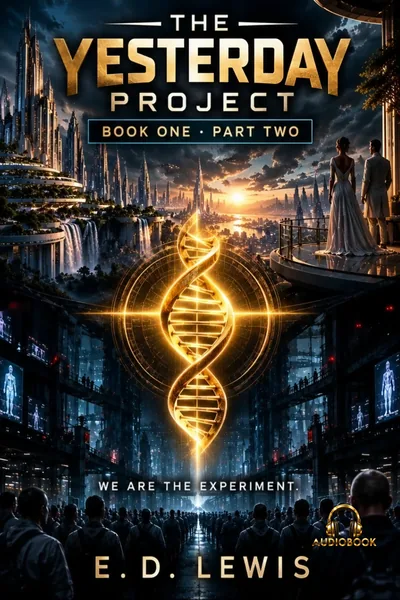
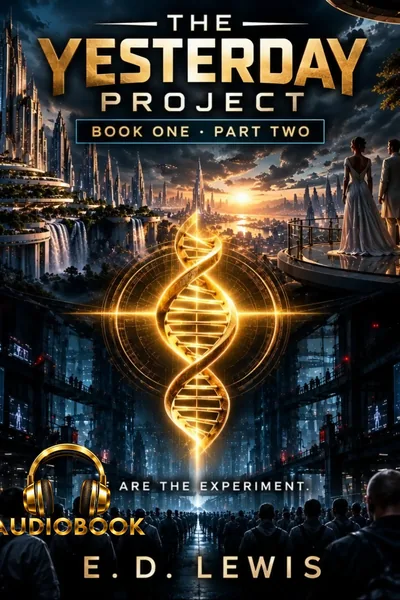
Yesterday Project: larger lower-left AUDIOBOOK badge (v4 covers) (#75)
Point home Stories covers and audiobook cards at the v4 tall art, and replace the Stories thumbs. Prior v3 tall files stay in place. Prices, Payhip links, and square player covers are unchanged.

diff --git a/audiobooks.html b/audiobooks.html
@@ -379,7 +379,7 @@
       <div class="grid grid-3" style="margin-top:14px;">
         <article id="the-yesterday-project" class="card product ab-available" style="scroll-margin-top:90px;" aria-label="The Yesterday Project: Book One, Part One audiobook">
           <div class="product-cover">
-            <img alt="The Yesterday Project: Book One, Part One by E. D. Lewis audiobook cover" src="images/covers-tall/the-yesterday-project-tall-20261024v3.webp" width="1024" height="1536" loading="lazy" decoding="async"/>
+            <img alt="The Yesterday Project: Book One, Part One by E. D. Lewis audiobook cover" src="images/covers-tall/the-yesterday-project-tall-20261024v4.webp" width="1024" height="1536" loading="lazy" decoding="async"/>
           </div>
           <div class="product-body">
             <div class="card-title-row">
@@ -411,7 +411,7 @@
         </article>
         <article id="the-yesterday-project-part-two" class="card product ab-available" style="scroll-margin-top:90px;" aria-label="The Yesterday Project: Book One, Part Two audiobook">
           <div class="product-cover">
-            <img alt="The Yesterday Project: Book One, Part Two by E. D. Lewis audiobook cover" src="images/covers-tall/the-yesterday-project-part-two-tall-20261024v3.webp" width="1024" height="1536" loading="lazy" decoding="async"/>
+            <img alt="The Yesterday Project: Book One, Part Two by E. D. Lewis audiobook cover" src="images/covers-tall/the-yesterday-project-part-two-tall-20261024v4.webp" width="1024" height="1536" loading="lazy" decoding="async"/>
           </div>
           <div class="product-body">
             <div class="card-title-row">

diff --git a/index.html b/index.html
@@ -1688,7 +1688,7 @@ const siteData = {
       meta: 'Free sample • Full audiobook out now',
       freeLabel: 'Free sample',
       tagline: 'We are the experiment.',
-      cover: 'images/covers-tall/the-yesterday-project-tall-20261024v3.webp',
+      cover: 'images/covers-tall/the-yesterday-project-tall-20261024v4.webp',
       freeCount: 1,
       items: [
         { number: 1, title: 'Audiobook Sample: Chapter 1', description: 'Free sample.', image: 'images/covers-square/the-yesterday-project-20261020.webp', audio: 'audio/audiobooks/the-yesterday-project/The-Yesterday-Project-Sample.mp3' }
@@ -1703,7 +1703,7 @@ const siteData = {
       meta: 'Free sample • Full audiobook out now',
       freeLabel: 'Free sample',
       tagline: 'We are the experiment.',
-      cover: 'images/covers-tall/the-yesterday-project-part-two-tall-20261024v3.webp',
+      cover: 'images/covers-tall/the-yesterday-project-part-two-tall-20261024v4.webp',
       freeCount: 1,
       items: [
         { number: 1, title: 'Audiobook Sample: Chapter 1 — Her Name', description: 'Free sample.', image: 'images/covers-square/the-yesterday-project-part-two-20261024.webp', audio: 'audio/audiobooks/the-yesterday-project-part-two/The-Yesterday-Project-Part-Two-Sample.mp3' }
